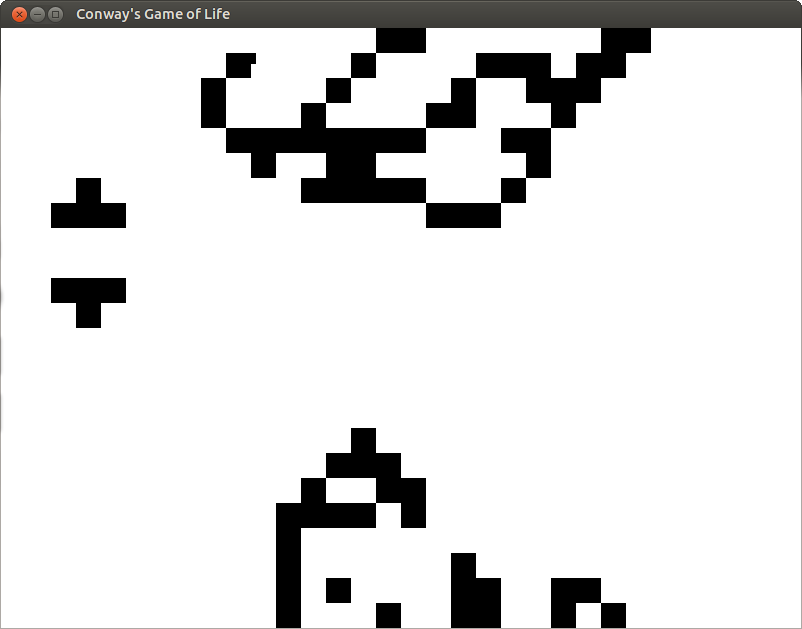
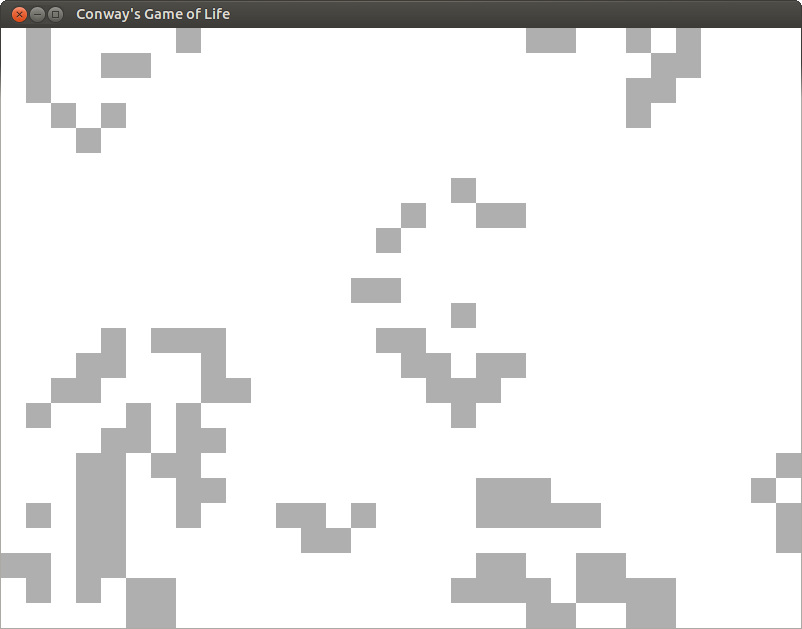
Add proper pause and restart functionality

diff --git a/03-game-of-life/src/game-of-life/Game.hpp b/03-game-of-life/src/game-of-life/Game.hpp
@@ -16,37 +16,39 @@ private:
         InProgress
     };
 
-    sf::RenderWindow window{{WIN_WIDTH, WIN_HEIGHT}, "Conway's Game of Life"};
+    sf::RenderWindow mWindow{{WIN_WIDTH, WIN_HEIGHT}, "Conway's Game of Life"};
 
-    std::array<bool, ROWS*COLS>               current_world = {{false}};
-    std::array<bool, ROWS*COLS>               updated_world = {{false}};
-    std::array<sf::RectangleShape, ROWS*COLS> grid;
+    std::array<bool, ROWS*COLS>               mCurrentWorld = {{false}};
+    std::array<bool, ROWS*COLS>               mUpdatedWorld = {{false}};
+    std::array<sf::RectangleShape, ROWS*COLS> mGrid;
     
-    sf::Font liberationSans;
-    sf::Text textState;
+    sf::Font mLiberationSans;
+    sf::Text mTextState;
 
-    sf::Vector2i mousePosition;
+    sf::Vector2i mMousePosition;
 
-    State state{State::Paused};
+    sf::Color mCellColor{0,0,0,80};
 
-    bool pausePressedLastFrame{false};
+    State mState{State::Paused};
+
+    bool mPausePressedLastFrame{false};
 
 public:
     Game()
     {
-        window.setVerticalSyncEnabled(true);
+        mWindow.setVerticalSyncEnabled(true);
 
-        liberationSans.loadFromFile(R"(../resources/fonts/LiberationSans-Regular.ttf)");
+        mLiberationSans.loadFromFile(R"(../resources/fonts/LiberationSans-Regular.ttf)");
 
         // Text for game state
-        textState.setFont(liberationSans);
-        textState.setCharacterSize(35.f);
-        textState.setColor(sf::Color::Black);
-        textState.setString("Paused");
-        auto stateBox = textState.getLocalBounds();
-        textState.setOrigin(stateBox.left + stateBox.width/2.f, 
-                            stateBox.top  + stateBox.height/2.f);
-        textState.setPosition(WIN_WIDTH/2.f, WIN_HEIGHT/2.f);
+        mTextState.setFont(mLiberationSans);
+        mTextState.setCharacterSize(35.f);
+        mTextState.setColor(sf::Color::Black);
+        mTextState.setString("Paused");
+        auto mStateBox = mTextState.getLocalBounds();
+        mTextState.setOrigin(mStateBox.left + mStateBox.width/2.f, 
+                            mStateBox.top  + mStateBox.height/2.f);
+        mTextState.setPosition(WIN_WIDTH/2.f, WIN_HEIGHT/2.f);
 
         // Setup grid
         for (int r = 0; r < ROWS; r++) {
@@ -56,7 +58,7 @@ public:
                 cell.setPosition((c*SQUARE_SIZE)+(SQUARE_SIZE/2.f), (r*SQUARE_SIZE)+(SQUARE_SIZE/2.f));
                 cell.setSize({SQUARE_SIZE, SQUARE_SIZE});
                 cell.setFillColor(sf::Color::White);
-                grid[idx(r,c)] = cell;
+                mGrid[idx(r,c)] = cell;
             }
         }
     }
@@ -64,44 +66,33 @@ public:
     // Reset the state of the grid
     void restart()
     {
-        state = State::Start;
+        mState = State::Start;
 
-        current_world.fill(false);
-        updated_world.fill(false);
+        mCurrentWorld.fill(false);
+        mUpdatedWorld.fill(false);
 
-        // Add glider in upper left corner
-        /*
-        current_world[idx(0,1)] = true;
-        current_world[idx(1,2)] = true;
-        current_world[idx(2,0)] = true;
-        current_world[idx(2,1)] = true;
-        current_world[idx(2,2)] = true;
+        for (auto& cell : mGrid)
+            cell.setFillColor(sf::Color::White);
 
-        // Add some other random shit
-        for (int i = 0; i < ROWS; i++)
-            current_world[idx(i % 11, (i + 3) % 7)] = true;
-        for (int i = 0; i < COLS; i++)
-            current_world[idx(i % 7, (i + 5) % 11)] = true;
-        */
-
-        window.clear(sf::Color::White);
+        mWindow.clear(sf::Color::White);
     }
 
     // Enter game loop
     void run()
     {
-        while (state == State::Start) {
-            processStartEvents();
-            render();
-        }
-
-
         sf::Time sleepTime = sf::seconds(0.1f);
-        while (window.isOpen()) {
-            processEvents();
-            render();
-            update();
-            sf::sleep(sleepTime);
+        while (mWindow.isOpen()) {
+            if (mState == State::Start) {
+                processStartEvents();
+                render();
+            } else {
+                processEvents();
+                render();
+                if (mState == State::InProgress) {
+                    update();
+                    sf::sleep(sleepTime);
+                } 
+            }
         }
     }
 
@@ -110,37 +101,62 @@ private:
     void processStartEvents()
     {
         sf::Event event;
-        while (window.pollEvent(event)) {
+        while (mWindow.pollEvent(event)) {
             if (event.type == sf::Event::Closed) {
-                window.close();
+                mWindow.close();
             } else if (event.type == sf::Event::MouseButtonPressed) {
-                mousePosition = sf::Mouse::getPosition(window);
-                int mx = mousePosition.x;
-                int my = mousePosition.y;
+                mMousePosition = sf::Mouse::getPosition(mWindow);
+                int mx = mMousePosition.x;
+                int my = mMousePosition.y;
                 if (0 <= mx and mx < WIN_WIDTH and 0 <= my and my < WIN_HEIGHT) {
-                    int gridIdx = idx(my / SQUARE_SIZE, mx / SQUARE_SIZE);
+                    int mGridIdx = idx(my / SQUARE_SIZE, mx / SQUARE_SIZE);
 
-                    grid[gridIdx].setFillColor(sf::Color::Black);
-                    current_world[gridIdx] = true;
+                    mGrid[mGridIdx].setFillColor(mCellColor);
+                    mCurrentWorld[mGridIdx] = true;
                 }
             }
         }
 
+        // Start game
         if (sf::Keyboard::isKeyPressed(sf::Keyboard::Key::Return))
-            state = State::InProgress;
+            mState = State::InProgress;
     }
 
     // Process external events
     void processEvents()
     {
         sf::Event event;
-        while (window.pollEvent(event)) {
+        while (mWindow.pollEvent(event)) { 
+            // Close window
             if (event.type == sf::Event::Closed) {
-                window.close();
-            } else if (event.type == sf::Event::MouseButtonPressed) {
-        
+                mWindow.close();
+                return;
+            } else if (event.type == sf::Event::KeyPressed) {
+                // Pause game
+                if (event.key.code == sf::Keyboard::Escape) {
+                    if (mState == State::Paused) 
+                        mState = State::InProgress;
+                    else if (mState == State::InProgress)
+                        mState = State::Paused;
+                    return;
+                } 
+
+                // Restart game
+                if (event.key.code == sf::Keyboard::R) {
+                    restart();
+                    return;
+                }
             }
         }
+    }
+
+    void recenterTextBox(const std::string& text)
+    {
+        mTextState.setString(text);
+        auto textBox = mTextState.getLocalBounds();
+        mTextState.setOrigin(textBox.left + textBox.width/2.f, 
+                             textBox.top  + textBox.height/2.f);
+        mTextState.setPosition(WIN_WIDTH/2.f, WIN_HEIGHT/2.f);
     }
 
     // Update the state of the grid
@@ -149,13 +165,13 @@ private:
         // Calculate updated world
         for (int r = 0; r < ROWS; r++)
             for (int c = 0; c < COLS; c++)
-                updated_world[idx(r,c)] = liveOrDie(r, c, adjacentNeighbors(r,c));
+                mUpdatedWorld[idx(r,c)] = liveOrDie(r, c, adjacentNeighbors(r,c));
 
         // Update current world
         for (int r = 0; r < ROWS; r++) {
             for (int c = 0; c < COLS; c++) {
-                current_world[idx(r,c)] = updated_world[idx(r,c)];
-                grid[idx(r,c)].setFillColor(current_world[idx(r,c)] ? sf::Color::Black : sf::Color::White);
+                mCurrentWorld[idx(r,c)] = mUpdatedWorld[idx(r,c)];
+                mGrid[idx(r,c)].setFillColor(mCurrentWorld[idx(r,c)] ? mCellColor : sf::Color::White);
             }
         }
     }
@@ -163,10 +179,10 @@ private:
     // Render the state of the grid to the window
     void render()
     {
-        window.clear(sf::Color::White);
-        for (auto& cell : grid)
-            window.draw(cell);
-        window.display();
+        mWindow.clear(sf::Color::White);
+        for (auto& cell : mGrid)
+            mWindow.draw(cell);
+        mWindow.display();
     }
 
     // Translate grid index to linear index
@@ -178,7 +194,7 @@ private:
     // Determine whether a given cell should live or die
     int liveOrDie(int r, int c, int n)
     {
-        return n == 3 or (n == 2 and current_world[idx(r,c)]);
+        return n == 3 or (n == 2 and mCurrentWorld[idx(r,c)]);
     }
 
     // Count number of neighbors around each cell, making
@@ -188,10 +204,10 @@ private:
         int n = 0;
         for (int r1 = r-1; r1 < r+2; r1++)
             for (int c1 = c-1; c1 < c+2; c1++)
-                if (current_world[idx((r1+ROWS) % ROWS, (c1+COLS) % COLS)])
+                if (mCurrentWorld[idx((r1+ROWS) % ROWS, (c1+COLS) % COLS)])
                     n++;
 
-        if (current_world[idx(r,c)])
+        if (mCurrentWorld[idx(r,c)])
             n--;
 
         return n;
